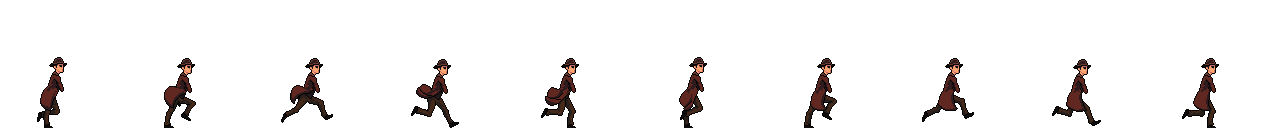
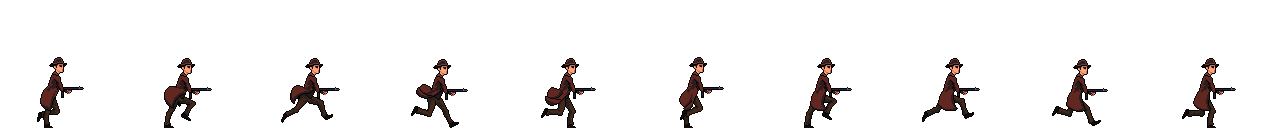
dqdz

diff --git a/Gppbox/app.cpp b/Gppbox/app.cpp
@@ -42,10 +42,8 @@ static int curDts = 0;
 
 int main()
 {
-#pragma region Initialization
     sf::RenderWindow window(sf::VideoMode(C::RES_X, C::RES_Y,32), "SFML works!", sf::Style::Fullscreen);
 	window.setVerticalSyncEnabled(false);
-	
 	Font font;
 
 	// load font
@@ -85,17 +83,16 @@ int main()
 	Vector2f viewCenter = v.getCenter();
 	float zoom = g.zoom;
 	v.zoom(zoom);
-#pragma endregion
+
+	sf::Clock timer;
 	
-#pragma region FPS
 	sf::Text fpsCounter;
 	fpsCounter.setFont(font);
 	fpsCounter.setString("FPS:");
+	
 	double frameStart = 0.0;
 	double frameEnd = 0.0;
-#pragma endregion
 
-#pragma region Bloom
 	sf::Texture winTex;
 	winTex.create(window.getSize().x, window.getSize().y);
 	
@@ -111,7 +108,7 @@ int main()
 
 	float bloomWidth = 0 ;
 	sf::Glsl::Vec4 bloomMul(1,1,1,0.8f);
-#pragma endregion
+
 	
     while (window.isOpen())
     {
@@ -124,8 +121,7 @@ int main()
 		{
 			ImGui::SFML::ProcessEvent(event);
 			g.processInput(event);
-
-			#pragma region ResizeWindow
+			
 			if (event.type == sf::Event::Resized) {
 				auto nsz = window.getSize();
 				winTex.create(window.getSize().x, window.getSize().y);
@@ -139,12 +135,13 @@ int main()
 				v = sf::View(Vector2f(nsz.x * 0.5f, nsz.y * 0.5f), Vector2f((float)nsz.x, (float)nsz.y));
 				viewCenter = v.getCenter();
 			}
-			#pragma endregion
 		}		
-
-		#pragma region ImGui
+    	
     	//don't use imgui before this;
     	ImGui::SFML::Update(window, sf::seconds((float)dt));
+
+		
+    	
 		if (ImGui::CollapsingHeader("View")) {
 			auto sz = v.getSize();
 			ImGui::Value("size x", sz.x);
@@ -164,15 +161,11 @@ int main()
 			ImGui::LabelText("Avg Update Time", "%0.6f", captureMdt);
 			ImGui::LabelText("Avg FPS", "%0.6f", 1.0 / captureMdt);
 		}
-
 		if (ImGui::CollapsingHeader("Bloom Control")) {
 			ImGui::SliderFloat("bloomWidth", &bloomWidth, 0, 55);//55 is max acceptable kernel size for constants, otherwise we should use a texture
 			ImGui::ColorEdit4("bloomMul", &bloomMul.x);
 			ImGui::ColorEdit4("bloomMul2", &bloomMul.x);
-		}
-		#pragma endregion
-
-    	
+		}    	
     	
     	g.update(dt);
     	g.cameraView = v;
@@ -188,8 +181,7 @@ int main()
     		window.setView(window.getDefaultView());
     		Bloom::render(window,winTex,destX,destFinal,&blurShader->sh,&bloomShader->sh, bloomWidth, bloomMul);
     	}
-
-		#pragma region Camera
+    	
     	float posXDiff = 100;
     	float posYDiff = player.crouching ? 20 : 0;
     	if (player.moveRight) posXDiff *= -1;
@@ -199,7 +191,6 @@ int main()
     	v.zoom(g.zoom / zoom);
     	zoom = g.zoom;
     	window.setView(v);//keep view up to date in case we want to do something with like... you know what.
-		#pragma endregion
     	
 		ImGui::SFML::Render(window);
         window.display();

diff --git a/Gppbox/Game.cpp b/Gppbox/Game.cpp
@@ -103,16 +103,21 @@ void Game::processInput(sf::Event ev) {
 			cacheWalls();
 		}
 
-		if (ev.key.code == sf::Keyboard::LControl)
+		/*if (ev.key.code == sf::Keyboard::LControl)
 		{
-			/*auto mainChar = ents[0];
+			auto mainChar = ents[0];
 			if (mainChar) {
 				mainChar->unCrouch();
-			}*/
-		}
+			}
+		}*/
 
 		if (ev.key.code == Keyboard::R) {
 			getPlayer().reload();
+		}
+		
+		if (ev.key.code == sf::Keyboard::Space)
+		{
+			getPlayer().gravy = 120.0f;
 		}
 	}
 	if (ev.type == sf::Event::JoystickButtonReleased)
@@ -151,10 +156,6 @@ void Game::processInput(sf::Event ev) {
 			removeWallAtPosition((int)(mousePosWorld.x/ C::GRID_SIZE), (int)(mousePosWorld.y/ C::GRID_SIZE));
 			cacheWalls();
 		}
-	}
-	
-	if (ev.type == sf::Event::MouseButtonReleased)
-	{
 		if (ev.mouseButton.button == sf::Mouse::Right)
 		{
 			printf("Stop Fire\n");
@@ -173,7 +174,7 @@ static double g_tickTimer = 0.0;
 
 void Game::pollInput(double dt) {
 	
-	float lateralSpeed = 20.0;
+	float lateralSpeed = 10.0;
 	float maxSpeed = 40.0;
 
 	// Move Left
@@ -290,7 +291,7 @@ void Game::update(double dt) {
 }
 
 void Game::onSpacePressed() {
-	// augmenter la hauteur du saut
+	printf("SPACE Start \n");
 }
 
 bool Game::hasCollision(int gx, int gy)

diff --git a/Gppbox/Entity.cpp b/Gppbox/Entity.cpp
@@ -41,9 +41,8 @@ void Entity::update(double dt){
 	// Check not moving
 	if (dx <= 2.0f && dx >= -2.0f && dy<= 2.0f && (animationRow == 1 || animationRow == 2 || animationRow == 10) && !jumping)
 	{
-		if (firing && animationRow!=10) setAnimationFrame(0, 10);
-		else if (!firing && animationRow != 2) setAnimationFrame(0, 2);
-		setAnimationFrame(0,0);
+		if (firing && animationRow!=6) setAnimationFrame(0, 6);
+		else if (!firing && animationRow != 0) setAnimationFrame(0, 0);
 	}
 	
 	animationTime += dt;
@@ -377,7 +376,8 @@ void Entity::stopFire()
 {
 	if (!firing) return;
 	firing = false;
-	setAnimationFrame(0, 0);
+	if (dx > 2.0f || dx < -2.0f) setAnimationFrame(currentFrame + 1, 2);
+	else setAnimationFrame(0, 0);
 }
 
 void Entity::fire()
@@ -386,9 +386,9 @@ void Entity::fire()
 	
 	// Start Fire System
 	firing = true;
-	setAnimationFrame(0, 6);
+	if (dx > 2.0f || dx < -2.0f) setAnimationFrame(currentFrame + 1, 10);
+	else setAnimationFrame(0, 6);
 	printf("fire\n");
-	
 }
 
 void Entity::reload()

diff --git a/Gppbox/Entity.hpp b/Gppbox/Entity.hpp
@@ -38,7 +38,7 @@ public:
 	float		width = 0.f;
 
 	float		frx = 0.88f;
-	float		fry = 1.0f;
+	float		fry = 0.95f;
 
 	int			currentFrame = 0;   
 	float		animationTime = 0;  
